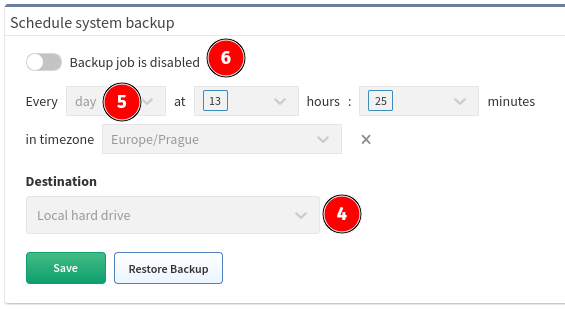
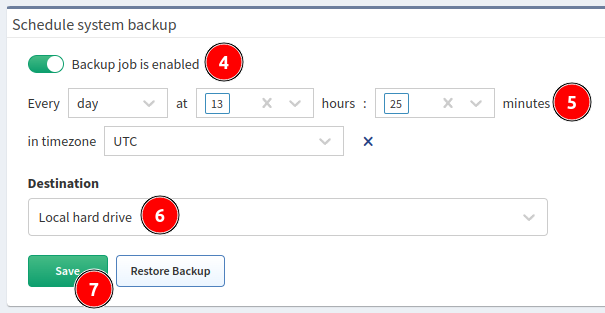
ST-131 Slightly polish 'Schedule System Backup'

diff --git a/docs/IP_Fabric_Settings/system/Backup_and_Maintenance/system_backup.md b/docs/IP_Fabric_Settings/system/Backup_and_Maintenance/system_backup.md
@@ -1,85 +1,102 @@
 ---
-description: You can schedule an IP Fabric backup to protect your important data locally or remotely.
+description: You can schedule a local or remote backup to protect your IP Fabric data.
 ---
 
 # Schedule System Backup
+
 !!! warning
 
-    If you're about to perform a backup, there needs to be > 50 % of the drive space free on the `root` filesystem.
+    For performing a backup, there needs to be > 50 % free space on the `root`
+    filesystem.
     
-    You can check in the IP Fabric's VM shell with command `df -h`.
+    You can check the free space with the `df -h` command in the IP Fabric VM's
+    shell.
 
-## Backup
-
-Use IP Fabric backup to protect your important data.
+Use backup to protect your IP Fabric data.
 
 There are two types of backup:
 
-- Local backup
-- Remote backup (FTP, sFTP)
+- local backup
+- remote backup (FTP, SFTP)
 
-!!! tip
+!!! important
 
-    Backups are encrypted with `osadmin` user password configured during the **first boot wizard**. When you lose `osadmin` user password, backups are also lost!
-
-## Local Backup
-
-Local backup saves database, user and system files locally on a dedicated backup volume. It's highly recommended placing backup volume on different datastore ideally on different physical storage.
-
-!!! info "Backup Disk"
-
-    The backup disk is not present by default! Please add a new virtual disk to enable local backups. (See below)
-
-To add a new backup drive and `mount` it as desired, follow instructions in [Increase Disk Space - Local Backup Disk](../../../System_Administration/increase_disk_space.md#local-backup-disk).
+    Backups are encrypted with the `osadmin` user password configured during the
+    **First Boot Wizard**. When you lose the `osadmin` user password, backups
+    are also lost!
 
 ## Automatic Local Backups
 
-To schedule automatic local backups do the following steps:
+Local backup saves database, user and system files locally on a dedicated backup
+volume. It's highly recommended placing the backup volume on a different
+datastore, ideally on a separate physical storage.
 
-1. Add dedicated backup volume if not available -- see steps above.
-1. Log in to the main user interface.
-1. Go to **Settings --> System --> Backup & Maintenance --> Schedule system backup**.
-1. Change **Destination** to **Local hard drive**.
-1. Set a backup schedule. See example for "Every day at 3:00".
-1. Enable backup.
+!!! info "Backup Disk"
+
+    The backup disk is not present by default! Please add a new virtual disk to
+    enable local backups.
+
+To add a new backup drive, follow the instructions in
+[Increase Disk Space - Local Backup Disk](../../../System_Administration/increase_disk_space.md#local-backup-disk).
+
+To schedule automatic local backups, do the following steps:
+
+1. Add a dedicated backup volume (if not done yet).
+2. Log in to the main user interface.
+3. Go to **Settings --> System --> Backup & Maintenance --> Schedule system
+   backup**.
+4. Enable backup.
+5. Set a backup schedule. See the example for `Every day at 13:25`.
+6. Change the **Destination** to `Local hard drive`.
+7. Click **Save**.
 
 ![Schedule local backup](system_backup/schedule_local_backup.png)
 
 ## Automatic Remote Backups
 
-Remote backup saves database, user and system files remotely using `FTP` or `SFTP` protocol.
+Remote backup saves database, user and system files remotely using the FTP or
+SFTP protocol.
 
 !!! note
 
-    This is a recommended type of backup.
+    This is the recommended type of backup.
 
 !!! warning
 
-    A directory **has to be specified** for FTP and SFTP backups.
+    For FTP and SFTP backups, a directory **has to be specified** . It **has to
+    exist** on the remote side. If it does not, you will get an error.
 
-    Directory path for **SFTP** has to be defined as an **absolute path** and for **FTP** as a **relative path**. Directory **has to exist** on the remote side. If it does not exist, you will get an error.
+    For **FTP**, the directory path has to be specified as a **relative path**.
+    
+    For **SFTP**, the directory path has to be specified as an **absolute
+    path**.
 
-To set up remote backup do the following steps:
+To set up remote backup, do the following steps:
 
 1. Log in to the user interface.
-1. Go to **Settings --> System --> Backup & Maintenance --> Schedule system backup**.
-1. Enable backup.
-1. Set a backup schedule. See example for "Every day at 5:15 and 17:15 (for setting more options, please, hold SHIFT during selection)".
-   ![backup schedule](system_backup/backup_schedule.png)
-1. Change **Destination** to `FTP` or `SFTP`.
-1. Enter remote FTP/SFTP **Server** FQDN or IP address. Make sure that your DNS client is configured and working properly in case of FQDN.
-1. Enter **Username** to access FTP/SFTP server.
-1. Enter **Password** to access FTP/SFTP server
-1. Specify a **Directory** where FTP/SFTP backup should be uploaded.
-1. Click **Save**.
-1. IP Fabric tries to reach FTP/SFTP server with configured parameters.
+2. Go to **Settings --> System --> Backup & Maintenance --> Schedule system
+   backup**.
+3. Enable backup.
+4. Set a backup schedule. See the example for `Every day at 5:15 and 17:15` (for
+   selecting multiple values, hold `Ctrl` or `Shift` during the selection).
+   ![Backup schedule](system_backup/backup_schedule.png)
+5. Change the **Destination** to `FTP` or `SFTP`.
+6. Enter the remote FTP/SFTP **Server** FQDN or IP address. Make sure that your
+   DNS client is configured and working properly in case of FQDN.
+7. Enter **Username** and **Password** for accessing the FTP/SFTP server.
+9. Specify the **Directory** where FTP/SFTP backup should be uploaded.
+10. Click **Save**.
+11. IP Fabric will try to reach the FTP/SFTP server with the configured
+    parameters.
 
 --8<-- "snippets/username_password_regex.md"
 
 !!! warning
 
-    FTP/SFTP user needs read, write, list and delete permissions.
+    The FTP/SFTP user needs the `read`, `write`, `list` and `delete`
+    permissions.
 
 !!! note
 
-    From version 4.1.1 onward we do not check validity of SSL certificates during FTP backups.
+    Since version `4.1.1`, we do not check the validity of SSL certificates
+    during FTP backups.
